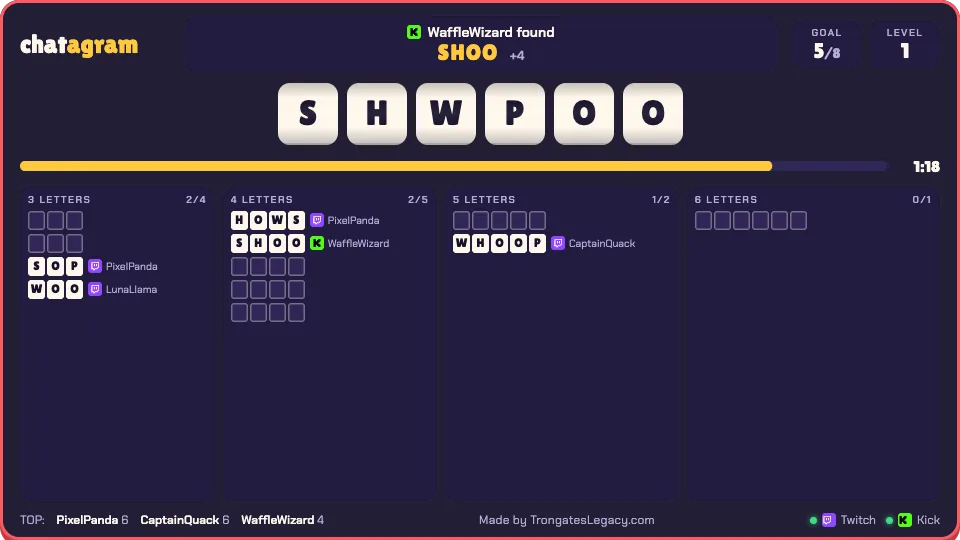
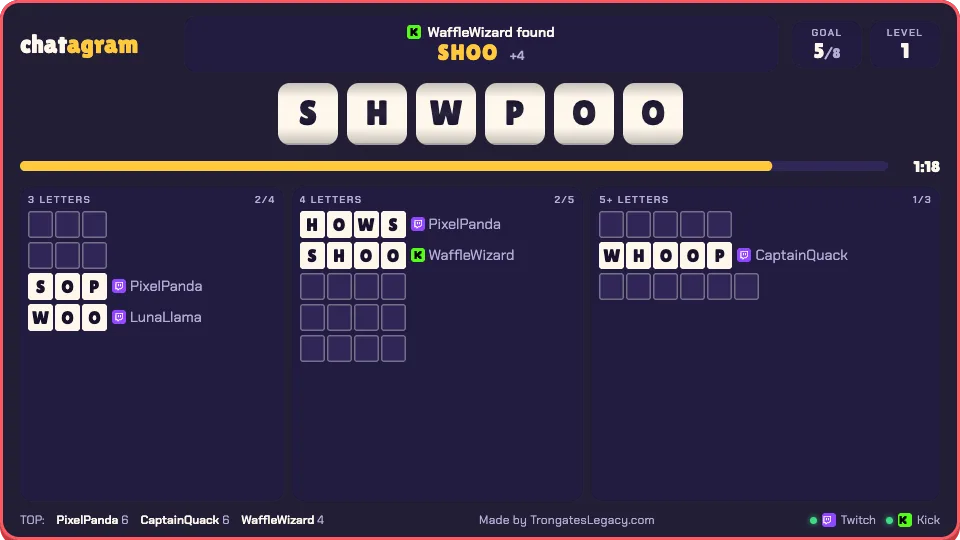
Chatagram board: the longest lengths share one 'N+' column when they only have a few boxes (fewer, roomier columns); test; browser tests no longer trip over a preview frame before it has a page; pictures re-rendered

diff --git a/public/chatagram/play.js b/public/chatagram/play.js
@@ -121,10 +121,30 @@
 
   // ---- drawing: the words (full layout) ---------------------------------------------------------------------------------
   const wordsEl = $('#words');
+  // Columns by length, but the longest lengths share one "N+" column when they only have a few boxes, so a board of
+  // mostly short words isn't split into thin, near-empty columns. Merges from the longest end while there are more than
+  // three columns and the merged column stays small (6 boxes or fewer); 3- and 4-letter words always keep their own.
+  let groupStart = 99;
+  function planGroups() {
+    const r = round(), count = new Map();
+    for (const a of r.answers) count.set(a.word.length, (count.get(a.word.length) || 0) + 1);
+    const lens = [...count.keys()].sort((a, b) => a - b);
+    groupStart = 99;
+    // try "5+", "6+"…: the lowest start whose merged column stays small, as long as that still leaves 3+ columns
+    for (const start of lens.filter((l) => l >= 5)) {
+      const merged = lens.filter((l) => l >= start).reduce((n, l) => n + count.get(l), 0);
+      const cols = lens.filter((l) => l < start).length + 1;
+      if (merged <= 6 && cols >= 3 && cols < lens.length) { groupStart = start; break; }
+    }
+  }
+  const groupOf = (len) => (len >= groupStart ? groupStart : Math.min(len, 7));
+  const groupLabel = (g, short) => (g === groupStart || g === 7 ? `${g}+` : `${g}`) + (short ? '' : ' LETTERS');
   function drawWords() {
     const r = round(); if (!r || cfg.layout === 'compact') return;
+    planGroups();
     const groups = new Map();
-    for (const [i, a] of r.answers.entries()) { const k = Math.min(a.word.length, 7); if (!groups.has(k)) groups.set(k, []); groups.get(k).push(i); }
+    for (const [i, a] of r.answers.entries()) { const k = groupOf(a.word.length); if (!groups.has(k)) groups.set(k, []); groups.get(k).push(i); }
+    for (const idx of groups.values()) idx.sort((x, y) => r.answers[x].word.length - r.answers[y].word.length);
     wordsEl.innerHTML = '';
     // The biggest letter boxes where every column really fits the board's width: names beside the words if at all possible,
     // otherwise without names. Each column's width is measured (letters + name), not guessed, so a big puzzle never ends
@@ -153,7 +173,7 @@
     for (const c of cols) {
       const got = c.all.filter((i) => r.answers[i].by).length;
       const col = document.createElement('div'); col.className = 'col' + (names ? '' : ' nonames');
-      const label = c.width >= 125 ? (c.len === 7 ? '7+ LETTERS' : `${c.len} LETTERS`) : (c.len === 7 ? '7+' : `${c.len}`);   // narrow columns: just the length
+      const label = groupLabel(c.len, c.width < 125);   // narrow columns: just the length
       col.innerHTML = `<h4>${c.first ? `<span>${label}</span><span data-count="${c.len}">${got}/${c.all.length}</span>` : ''}</h4>` +
         c.idx.map((i) => `<div class="w" data-a="${i}"></div>`).join('');
       wordsEl.appendChild(col);
@@ -170,8 +190,8 @@
       // one animation on the whole word (the letters never move on their own, so they can't overlap)
       anim(el, [{ transform: 'scale(1)' }, { transform: 'scale(1.6)', offset: 0.18 }, { transform: 'scale(1.6)', offset: 0.6 }, { transform: 'scale(1)' }], { duration: 1400, easing: 'cubic-bezier(.3,.7,.3,1)' });
       setTimeout(() => el.classList.remove('new'), 3500);
-      const count = wordsEl.querySelector(`[data-count="${Math.min(a.word.length, 7)}"]`);
-      if (count) { const all = round().answers.filter((x) => Math.min(x.word.length, 7) === Math.min(a.word.length, 7)); count.textContent = `${all.filter((x) => x.by).length}/${all.length}`; }
+      const count = wordsEl.querySelector(`[data-count="${groupOf(a.word.length)}"]`);
+      if (count) { const all = round().answers.filter((x) => groupOf(x.word.length) === groupOf(a.word.length)); count.textContent = `${all.filter((x) => x.by).length}/${all.length}`; }
     }
   }
 

diff --git a/docs/widgets.md b/docs/widgets.md
@@ -126,6 +126,8 @@ round highlights (fastest find, longest streak, last-second save).
   word boxes, 16–50), spread over the lengths in proportion, the longest word always among them. A box belongs to a
   length, not a word: any real word of that length fills the next open box, and once a length's boxes are full, more words
   of that length don't count ("full"). The goal is 65% of the boxes. Unfilled boxes' words are the "missed" ones.
+- **Columns**: one per length, but the longest lengths share one "N+" column (e.g. "5+ LETTERS") when together they
+  have 6 boxes or fewer and at least three columns remain; 3- and 4-letter words always keep their own column.
 - **The banner** runs one scramble at a time; a new find cancels the last, so it always ends on the newest word (test).
 - **Empty slots** have a clear outline in every theme, so they read on any background and when the source is small.
 - **Performance**: one timer drives the game (set for `nextWake()`), one updates the clock once a second; animations
